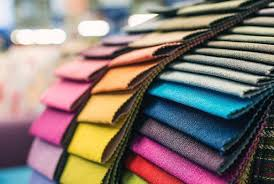
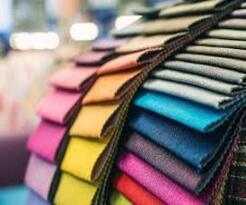
ajuste el tamaño de la imagen de index

diff --git a/prog/prog.css b/prog/prog.css
@@ -69,7 +69,7 @@ footer{
 }
 
 .rounded{
- height: 48%;
+ height: 49%;
  width: 49%;
 }
 
